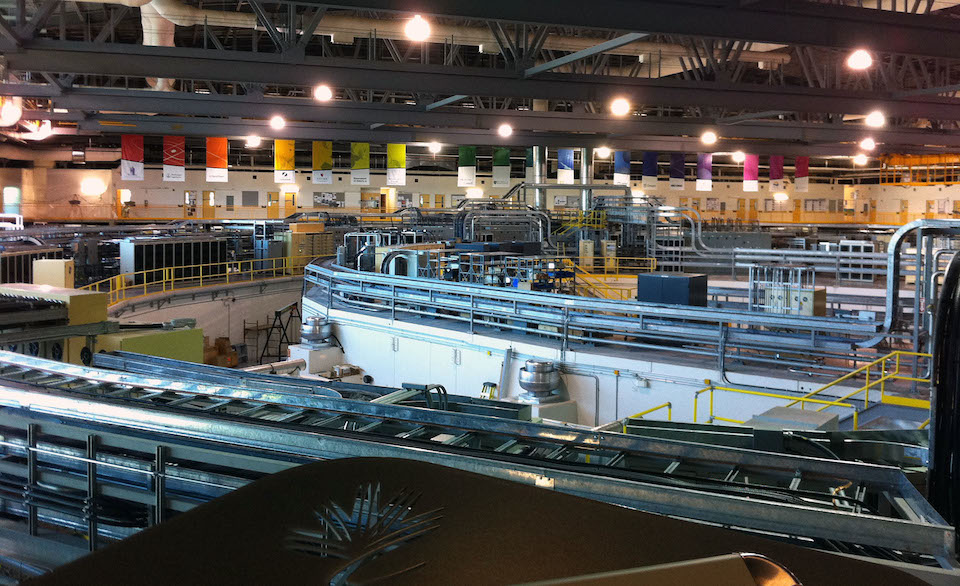
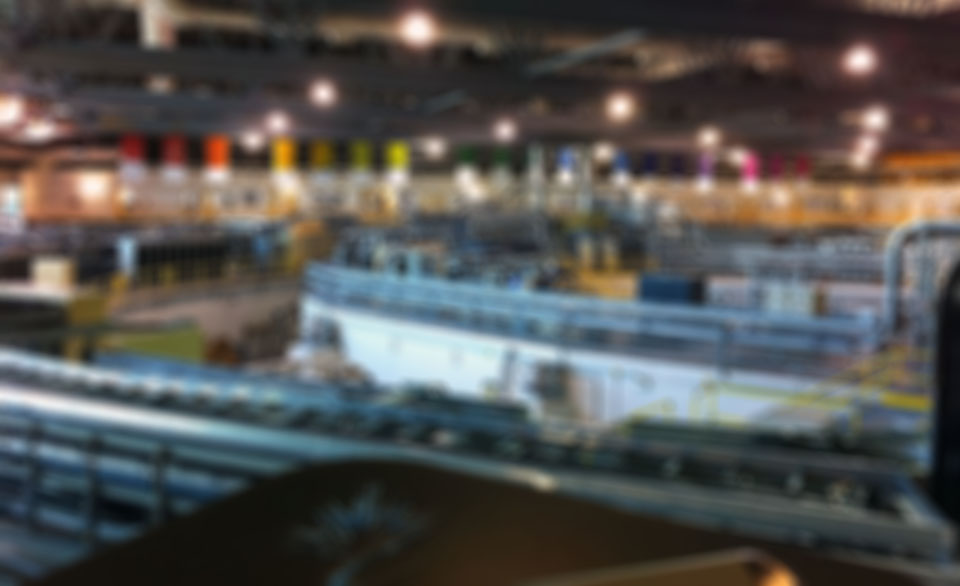
landing page

diff --git a/landingpage/css/landing.less b/landingpage/css/landing.less
@@ -66,7 +66,7 @@ h1, h2, h3, h4 {
     background-repeat:no-repeat;
     background-attachment: fixed;
     background-size:100% 100%;
-    -webkit-filter: brightness(35%);
+    -webkit-filter: brightness(55%);
     z-index: -9999;
 }
 .jumbotron {

diff --git a/landingpage/css/landing.css b/landingpage/css/landing.css
@@ -69,7 +69,7 @@ h4 {
   background-repeat: no-repeat;
   background-attachment: fixed;
   background-size: 100% 100%;
-  -webkit-filter: brightness(35%);
+  -webkit-filter: brightness(55%);
   z-index: -9999;
 }
 .jumbotron {
